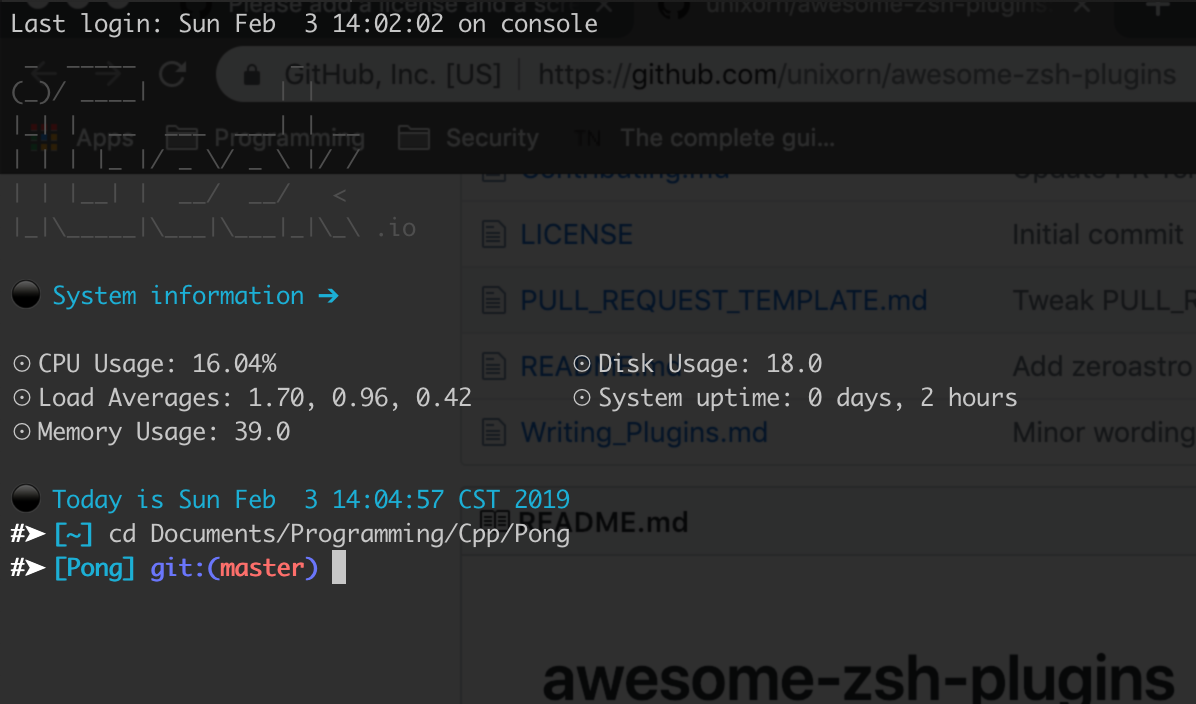
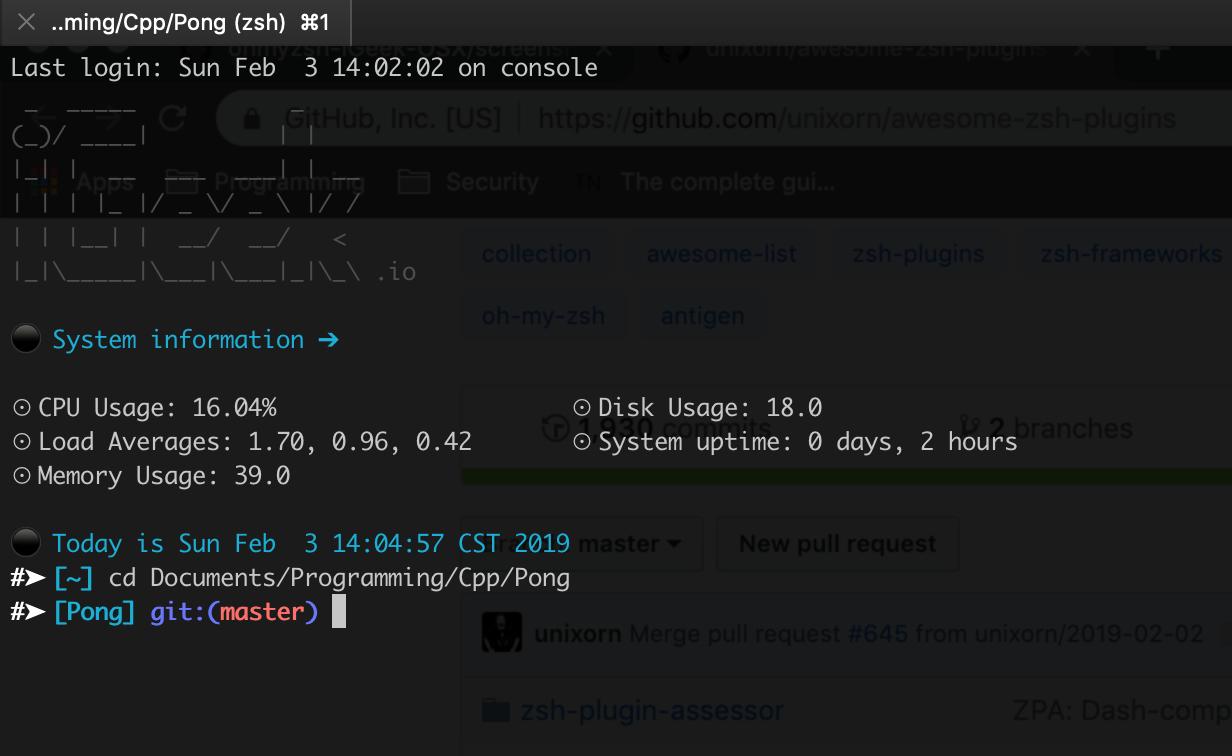
Updated readme and screenshot.

diff --git a/README.md b/README.md
@@ -1,2 +1,7 @@
 # ohmyzsh-IGeek-OSX
 Modified iGeek theme for oh-my-zsh. Works with OSX out-of the box.
+
+![./screenshot.png](./screenshot.png)
+
+# Original Work
+This theme was derived from [here](https://github.com/Saleh7/igeek-zsh-theme).
